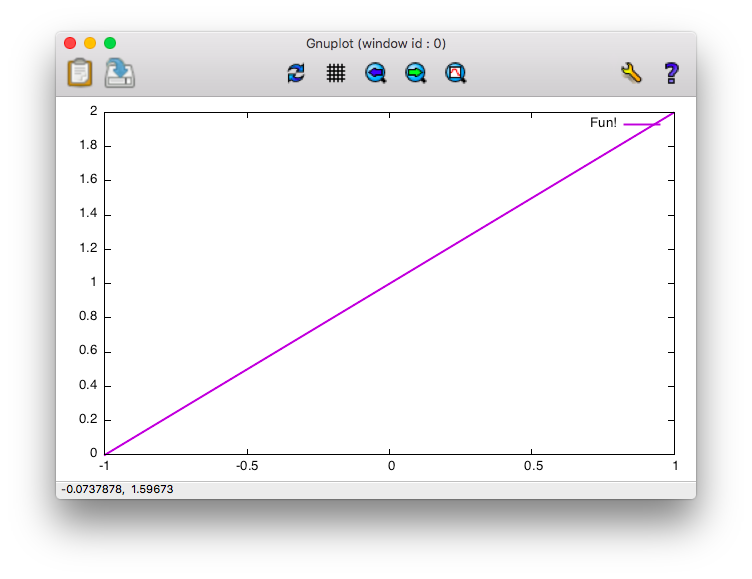
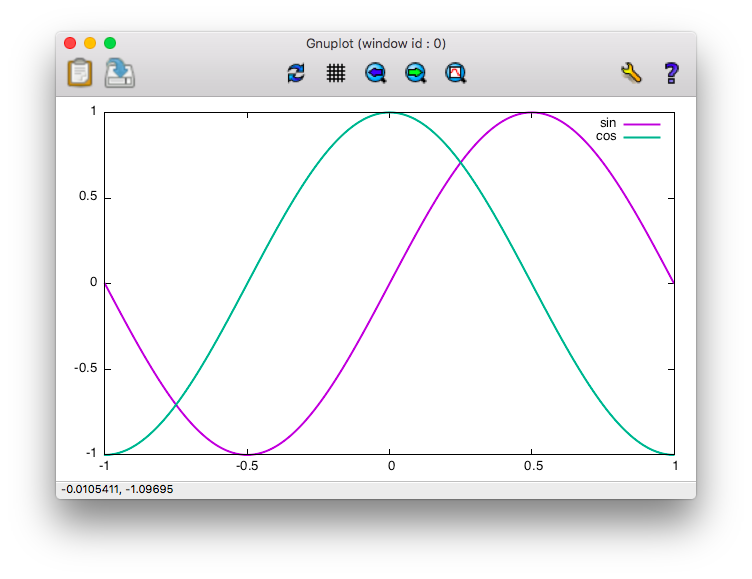
Hatlab: try some smartness with gnuplot path

diff --git a/README.md b/README.md
@@ -20,7 +20,6 @@ or
 
 `cabal repl` or `stack ghci` then
 
-    > plot [Fun (\x -> x+1) "Fun!"]
     > plot [Fun (sin.(pi*)) "sin", Fun (cos.(pi*)) "cos"]
 
 Default plot interval is [-1,1].
